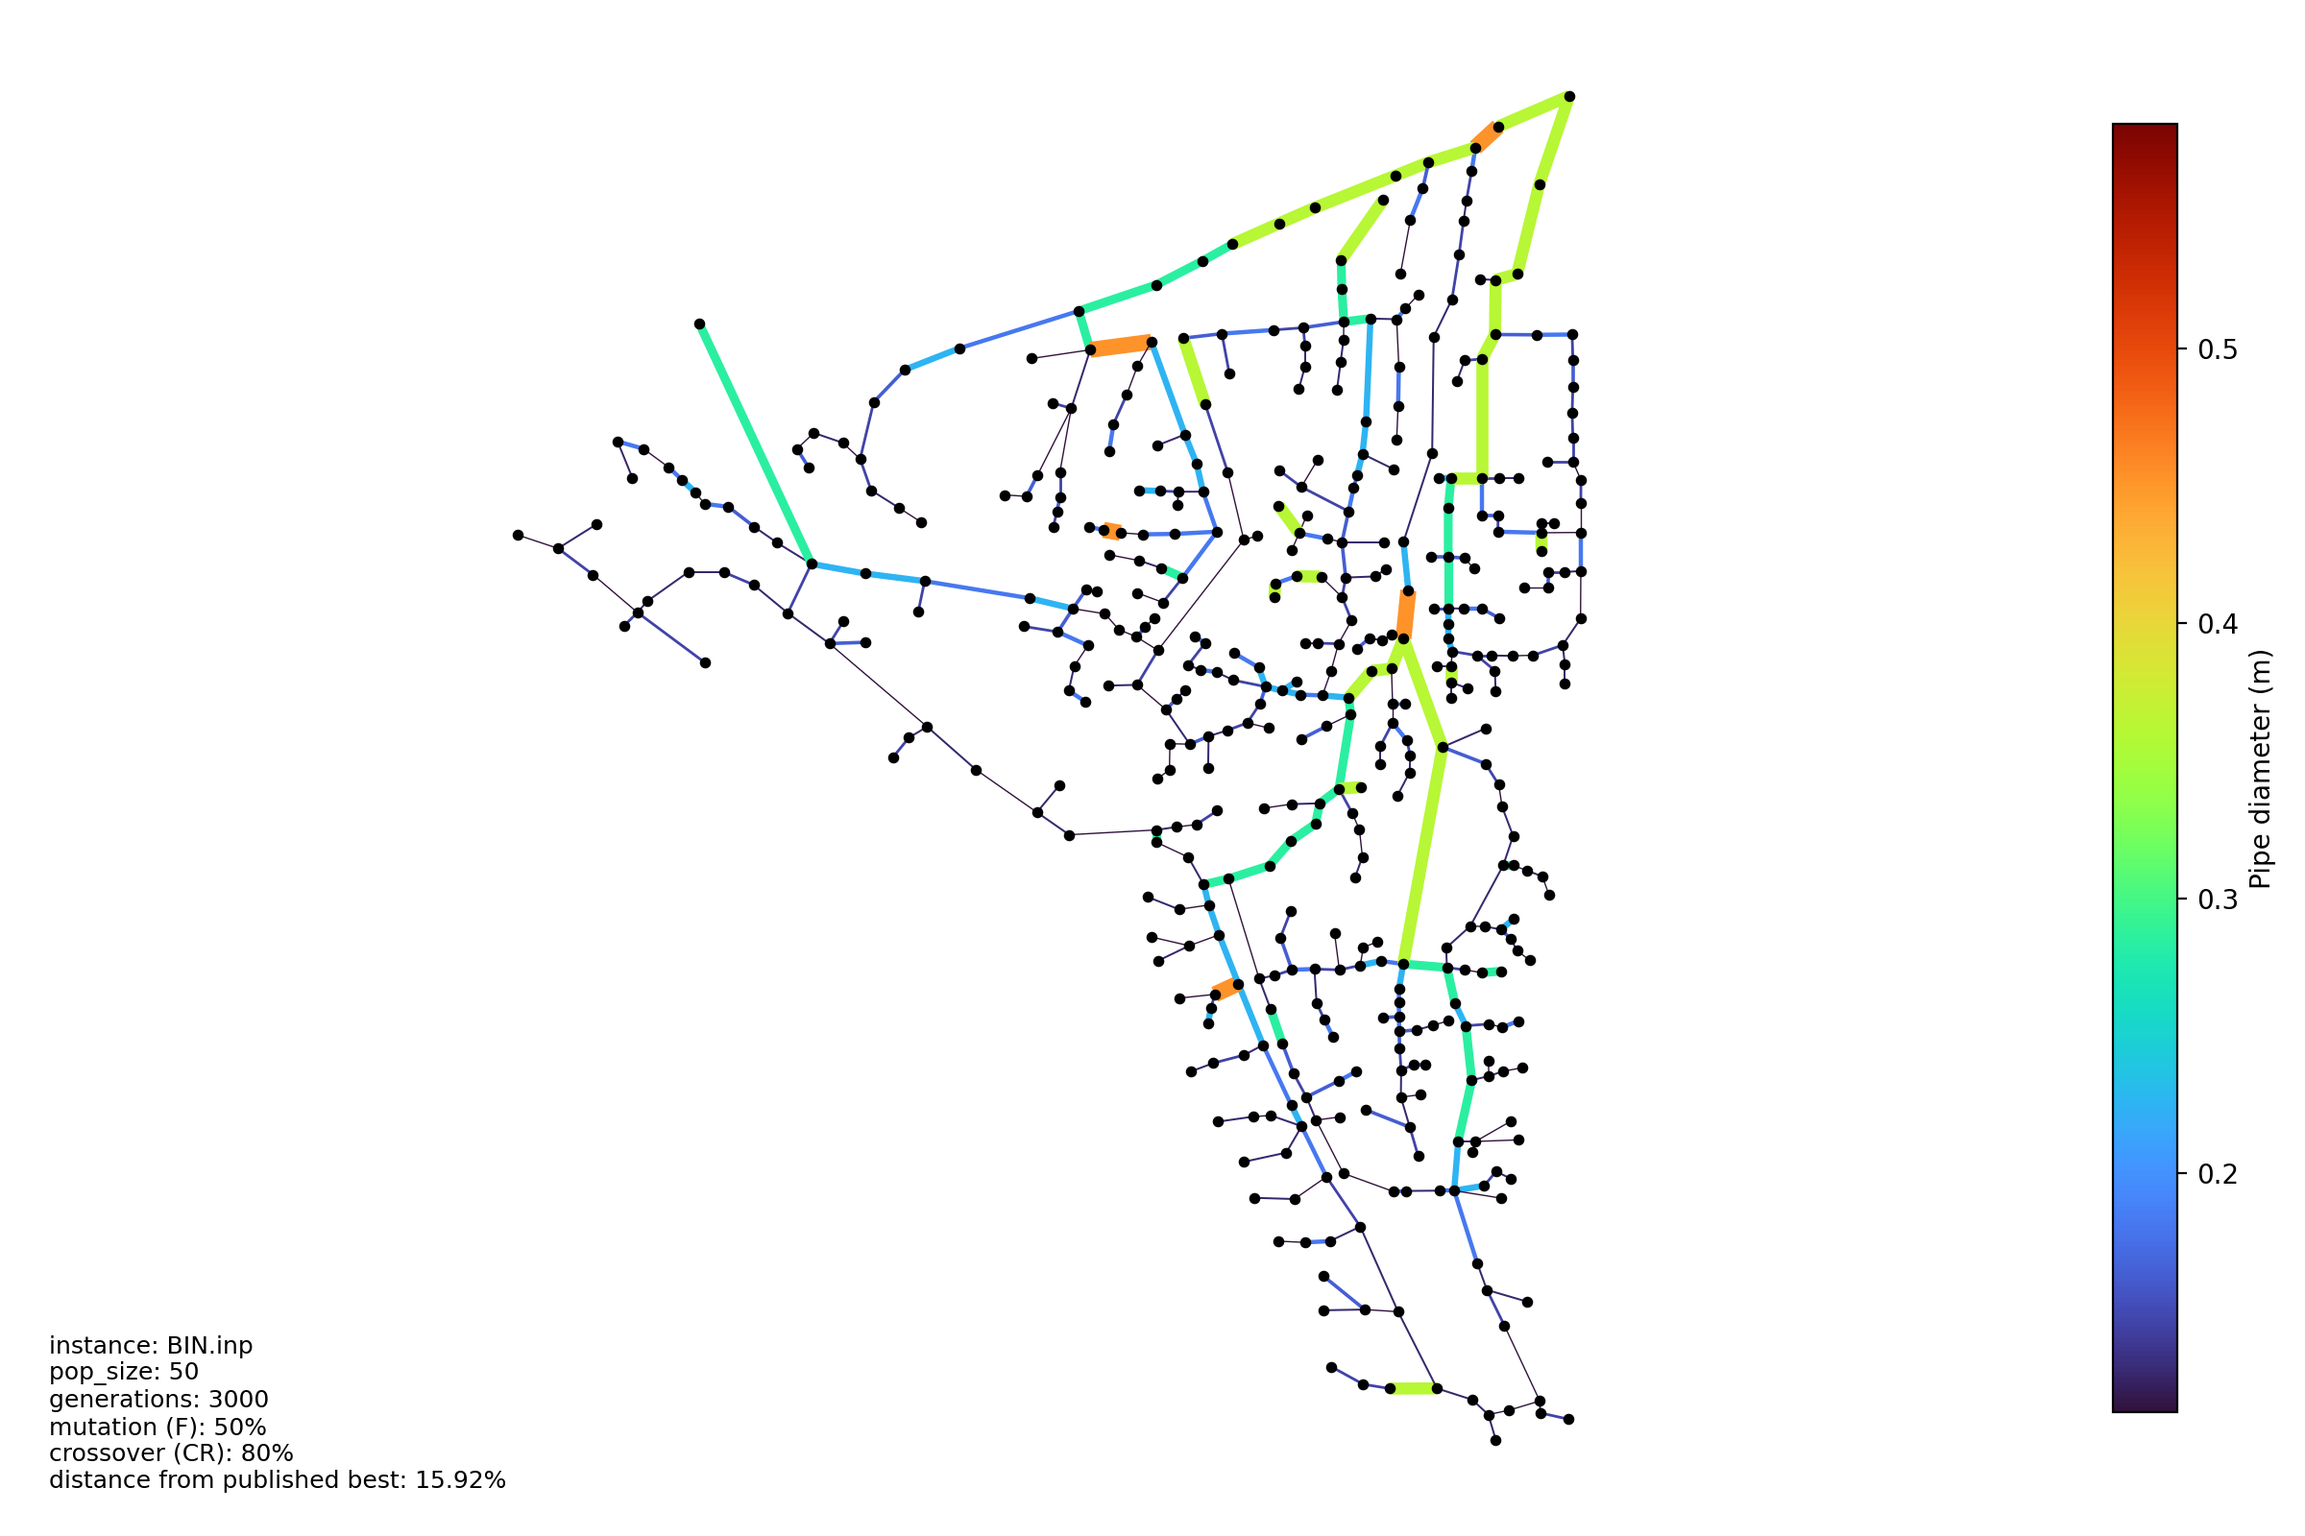
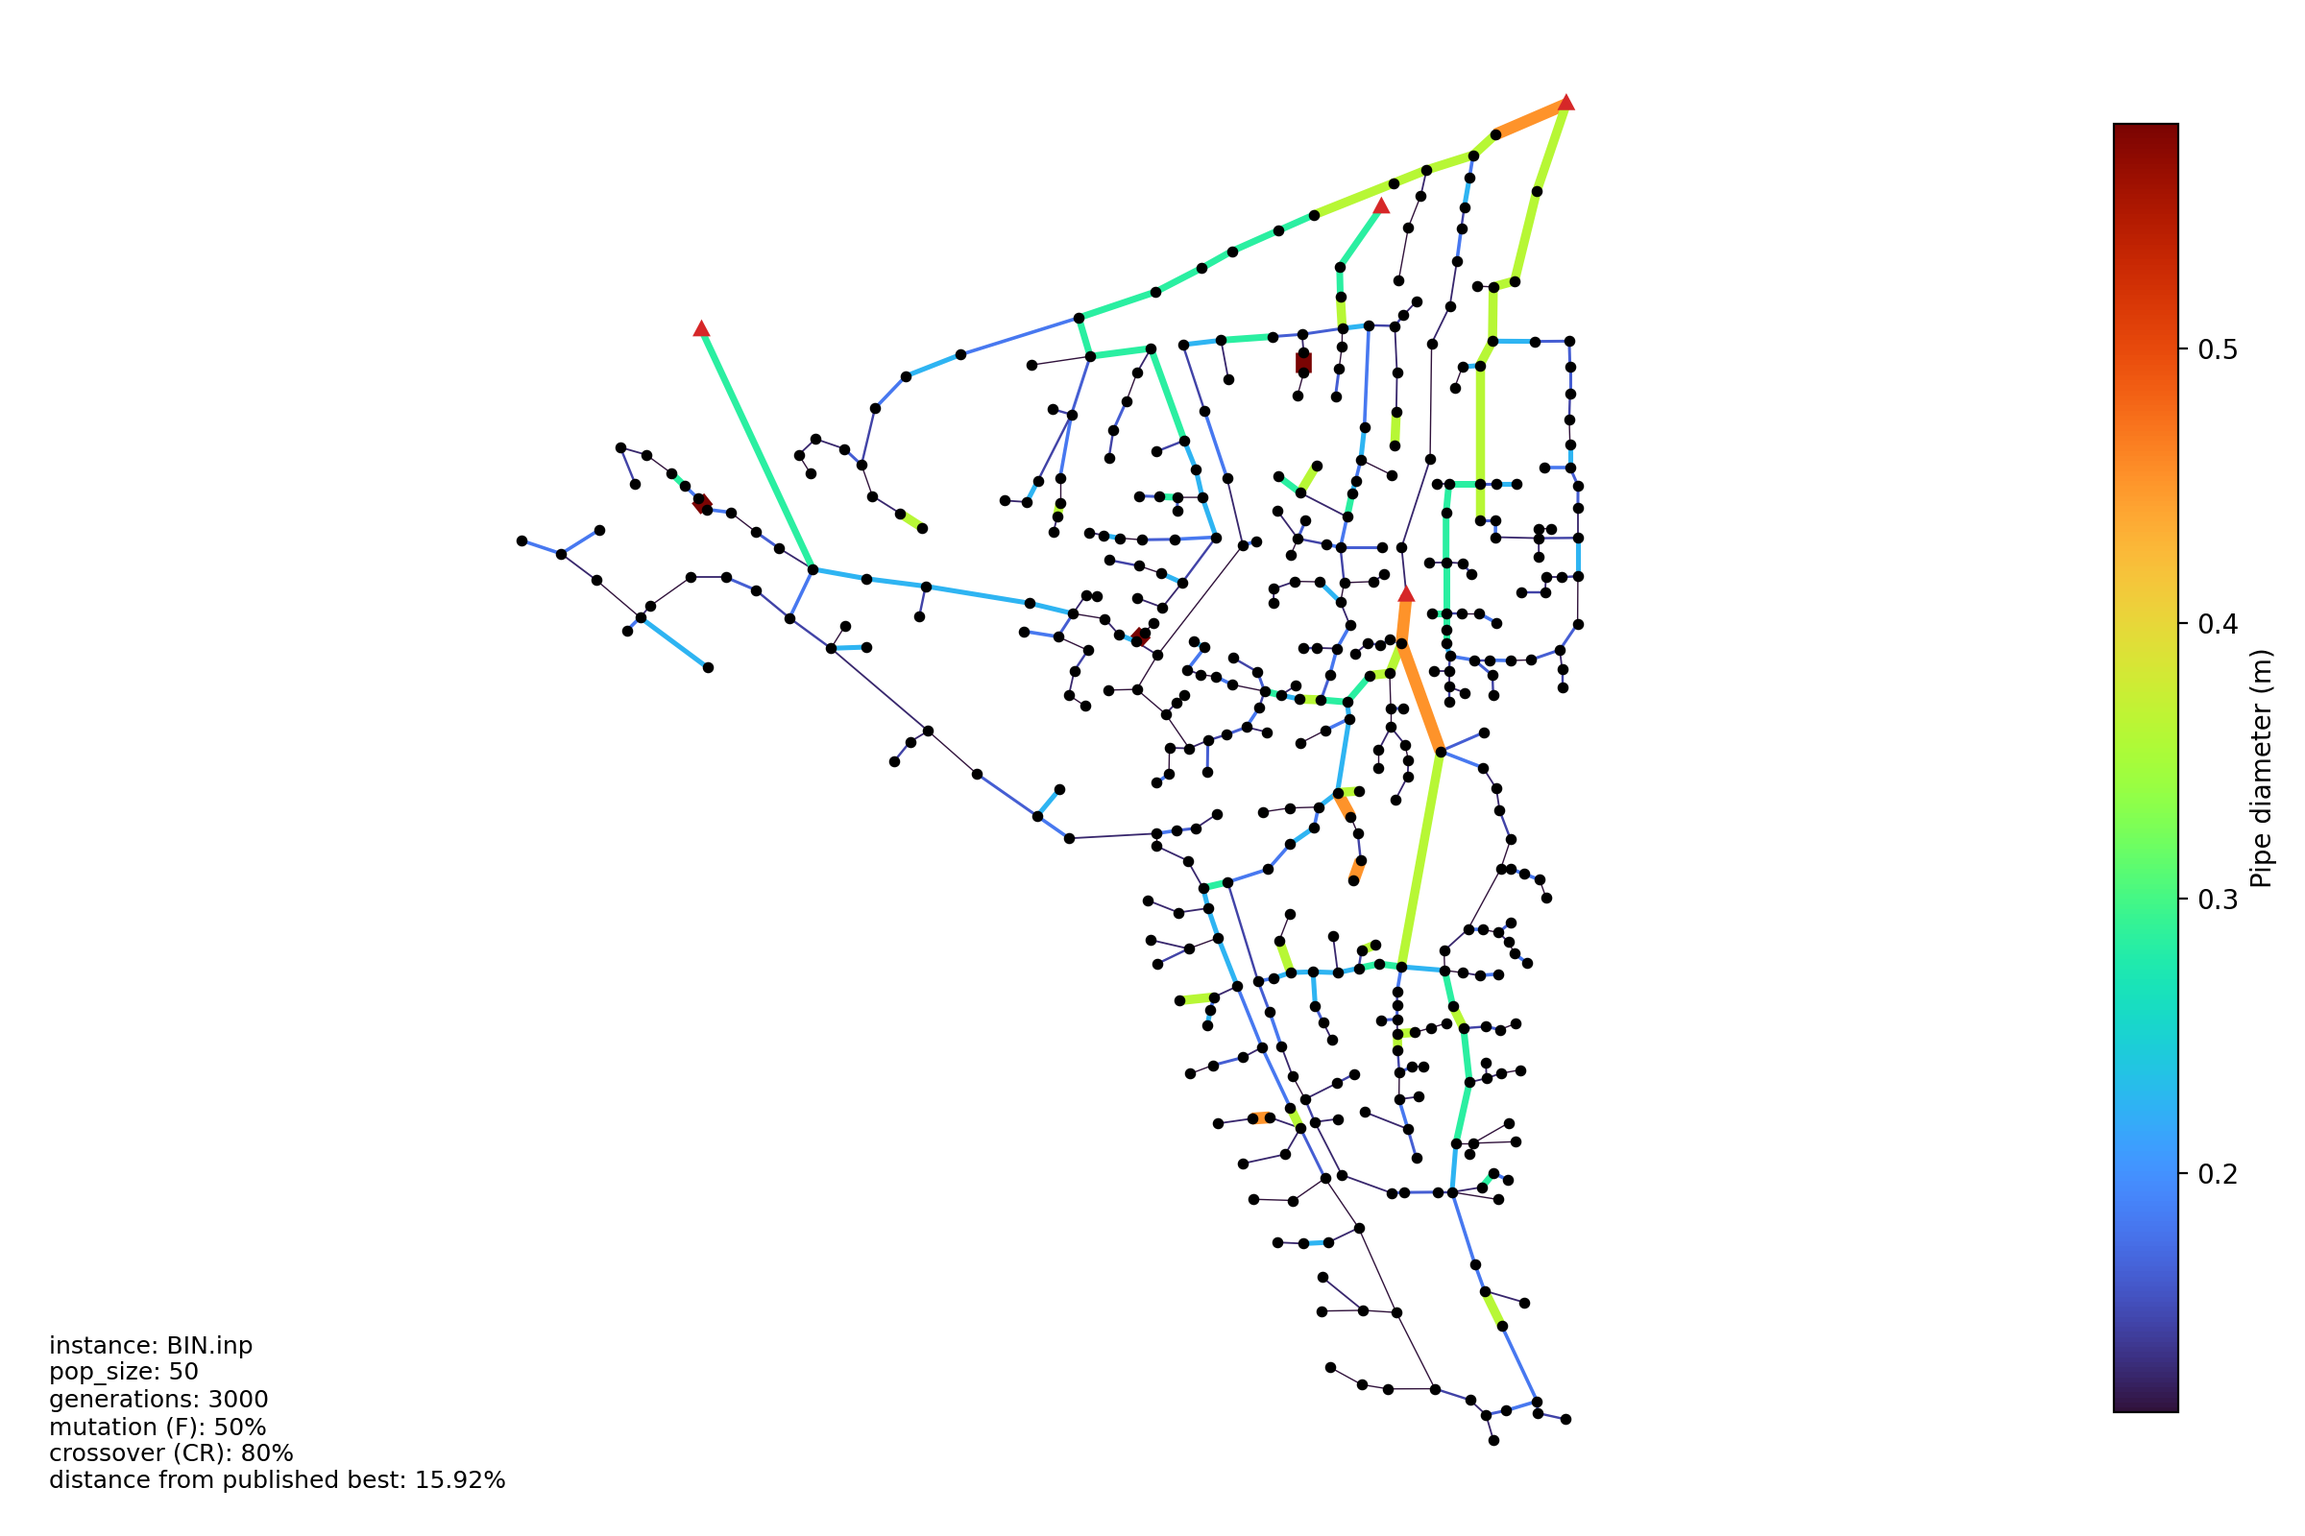
improve network visualization

diff --git a/water-distribution-networks/differential-evolution/main.py b/water-distribution-networks/differential-evolution/main.py
@@ -97,6 +97,10 @@ def _load_wntr_model_robust(
         current_section: str | None = None
         converted_reservoirs: list[str] = []
         reservoir_inserted = False
+        option_pattern_id: str | None = None
+        pattern_ids: set[str] = set()
+        patterns_section_index: int | None = None
+        node_ids: set[str] = set()
         changed = False
 
         for line in text.splitlines():
@@ -119,6 +123,8 @@ def _load_wntr_model_robust(
                 current_section = upper
                 if current_section == "[RESERVOIRS]":
                     reservoir_inserted = True
+                if current_section == "[PATTERNS]":
+                    patterns_section_index = len(rewritten_lines)
 
             if current_section == "[OPTIONS]" and upper.startswith("UNITS"):
                 parts = stripped.split()
@@ -128,12 +134,37 @@ def _load_wntr_model_robust(
                     changed = True
                     continue
 
+            if current_section == "[OPTIONS]" and upper.startswith("PATTERN"):
+                parts = stripped.split()
+                if len(parts) >= 2:
+                    option_pattern_id = parts[1]
+
+            if (
+                current_section in {"[JUNCTIONS]", "[RESERVOIRS]"}
+                and stripped
+                and not stripped.startswith(";")
+            ):
+                parts = stripped.split()
+                if parts:
+                    node_ids.add(parts[0])
+
+            if (
+                current_section == "[PATTERNS]"
+                and stripped
+                and not stripped.startswith(";")
+            ):
+                parts = stripped.split()
+                if parts:
+                    pattern_ids.add(parts[0])
+
             if (
                 current_section == "[TANKS]"
                 and stripped
                 and not stripped.startswith(";")
             ):
                 parts = stripped.split()
+                if parts:
+                    node_ids.add(parts[0])
                 if len(parts) == 2:
                     leading = line[: len(line) - len(line.lstrip())]
                     converted_reservoirs.append(f"{leading}{parts[0]} {parts[1]}")
@@ -154,6 +185,17 @@ def _load_wntr_model_robust(
                     changed = True
                     continue
 
+            if (
+                current_section == "[COORDINATES]"
+                and stripped
+                and not (upper.startswith("[") and upper.endswith("]"))
+                and not stripped.startswith(";")
+            ):
+                parts = stripped.split()
+                if parts and parts[0] not in node_ids:
+                    changed = True
+                    continue
+
             rewritten_lines.append(line)
 
         if converted_reservoirs and not reservoir_inserted:
@@ -161,6 +203,21 @@ def _load_wntr_model_robust(
                 ["[RESERVOIRS]", "; Converted from simplified [TANKS] entries."]
             )
             rewritten_lines.extend(converted_reservoirs)
+            changed = True
+
+        if option_pattern_id and option_pattern_id not in pattern_ids:
+            insert_at = (
+                patterns_section_index + 1
+                if patterns_section_index is not None
+                else len(rewritten_lines)
+            )
+            injected_lines = [
+                f"{option_pattern_id} 1.0",
+                "; Injected default flat pattern for wntr compatibility.",
+            ]
+            if patterns_section_index is None:
+                injected_lines.insert(0, "[PATTERNS]")
+            rewritten_lines[insert_at:insert_at] = injected_lines
             changed = True
 
         if not changed:
@@ -192,6 +249,9 @@ def _load_wntr_model_robust(
     except ValueError as exc:
         if 'inpfile_units = "%s" is not a valid EPANET unit code' not in str(exc):
             raise
+        text = inp_path.read_text(encoding="utf-8", errors="replace")
+        return _load_from_text(text)
+    except wntr.epanet.exceptions.EpanetException:
         text = inp_path.read_text(encoding="utf-8", errors="replace")
         return _load_from_text(text)
 
@@ -522,7 +582,7 @@ def _build_progress_line(
 
 
 def main() -> None:
-    runs = 15
+    runs = 24
     # instance_name = "TLN.inp"
     # instance_name = "BLA.inp"
     instance_name = "GOY.inp"
@@ -539,7 +599,7 @@ def main() -> None:
     # crossover_rate=0.9
 
     config = DifferentialEvolutionConfig(
-        generations=500,
+        generations=300,
         population_size=50,
         mutation_factor=mutation_factor,
         crossover_rate=crossover_rate,

diff --git a/water-distribution-networks/differential-evolution/generate_best_for_instance.py b/water-distribution-networks/differential-evolution/generate_best_for_instance.py
@@ -11,6 +11,7 @@ import matplotlib
 matplotlib.use("Agg")
 import matplotlib.pyplot as plt
 from matplotlib.collections import LineCollection
+from matplotlib.patches import Polygon
 
 
 def load_best_vector(path: Path) -> np.ndarray:
@@ -29,6 +30,24 @@ def snap_to_allowed(candidate: np.ndarray, allowed: np.ndarray) -> np.ndarray:
     distances = np.abs(candidate[:, None] - allowed[None, :])
     idx = np.argmin(distances, axis=1)
     return allowed[idx]
+
+
+def _draw_source_symbol(ax: plt.Axes, x: float, y: float, scale: float) -> None:
+    triangle = [
+        (x, y + scale),
+        (x - scale * 0.85, y - scale * 0.6),
+        (x + scale * 0.85, y - scale * 0.6),
+    ]
+    ax.add_patch(
+        Polygon(
+            triangle,
+            closed=True,
+            facecolor="#d62728",
+            edgecolor="#d62728",
+            linewidth=1.0,
+            zorder=3,
+        )
+    )
 
 
 def generate_for_results(results_dir: Path) -> None:
@@ -69,7 +88,7 @@ def generate_for_results(results_dir: Path) -> None:
                     run_cost = cost
                     best_run_id = rid
 
-    files = sorted(results_dir.glob("run_*_best_vectors.csv"))
+    files = sorted(results_dir.glob("run_*_best_vector*.csv"))
     if not files:
         raise SystemExit("No best vector files found")
     best_vec_path = files[0]
@@ -84,6 +103,21 @@ def generate_for_results(results_dir: Path) -> None:
     inp_path = Path(__file__).resolve().parents[1] / "data" / instance_name
     parsed = InpFileParser(inp_path).parse()
     pipe_entries = parsed.pipes.entries if parsed.pipes else []
+    pump_entries = parsed.pumps.entries if parsed.pumps else []
+    tank_ids = {entry.id for entry in parsed.tanks.entries} if parsed.tanks else set()
+    reservoir_ids = (
+        {entry.id for entry in parsed.reservoirs.entries}
+        if parsed.reservoirs
+        else set()
+    )
+    pipe_nodes = {p.node1 for p in pipe_entries} | {p.node2 for p in pipe_entries}
+    inferred_source_ids = {
+        node
+        for pump in pump_entries
+        for node in (pump.node1, pump.node2)
+        if node not in pipe_nodes
+    }
+    source_ids = tank_ids | reservoir_ids | inferred_source_ids
 
     positions = {}
     if parsed.coordinates and parsed.coordinates.entries:
@@ -136,9 +170,47 @@ def generate_for_results(results_dir: Path) -> None:
     fig, ax = plt.subplots(figsize=(12, 8))
     lc = LineCollection(segments, colors=colors, linewidths=widths, zorder=1)
     ax.add_collection(lc)
-    node_x = [positions[n][0] for n in positions]
-    node_y = [positions[n][1] for n in positions]
+    pump_segments = []
+    pump_labels = []
+    for pump in pump_entries:
+        if pump.node1 not in positions or pump.node2 not in positions:
+            continue
+        x1, y1 = positions[pump.node1]
+        x2, y2 = positions[pump.node2]
+        pump_segments.append([(x1, y1), (x2, y2)])
+        pump_labels.append(((x1 + x2) / 2.0, (y1 + y2) / 2.0))
+    if pump_segments:
+        ax.add_collection(
+            LineCollection(
+                pump_segments,
+                colors="black",
+                linewidths=1.6,
+                zorder=2,
+            )
+        )
+
+    node_x = [positions[n][0] for n in positions if n not in source_ids]
+    node_y = [positions[n][1] for n in positions if n not in source_ids]
     ax.scatter(node_x, node_y, s=10, c="k", zorder=2)
+    if positions:
+        xs = [xy[0] for xy in positions.values()]
+        ys = [xy[1] for xy in positions.values()]
+        symbol_scale = max(max(xs) - min(xs), max(ys) - min(ys)) * 0.006
+        for source_id in source_ids:
+            if source_id not in positions:
+                continue
+            _draw_source_symbol(ax, *positions[source_id], scale=symbol_scale)
+    for x, y in pump_labels:
+        ax.text(
+            x,
+            y,
+            "P",
+            ha="center",
+            va="center",
+            fontsize=10,
+            bbox=dict(facecolor="white", edgecolor="none", pad=0.2),
+            zorder=4,
+        )
     ax.set_aspect("equal", adjustable="datalim")
     ax.axis("off")
     sm = plt.cm.ScalarMappable(cmap=cmap, norm=norm)

diff --git a/water-distribution-networks/differential-evolution/visualize_best.py b/water-distribution-networks/differential-evolution/visualize_best.py
@@ -11,6 +11,7 @@ import matplotlib
 matplotlib.use("Agg")
 import matplotlib.pyplot as plt
 from matplotlib.collections import LineCollection
+from matplotlib.patches import Polygon
 
 
 def load_best_vector(path: Path) -> np.ndarray:
@@ -31,6 +32,24 @@ def snap_to_allowed(candidate: np.ndarray, allowed: np.ndarray) -> np.ndarray:
     distances = np.abs(candidate[:, None] - allowed[None, :])
     idx = np.argmin(distances, axis=1)
     return allowed[idx]
+
+
+def _draw_source_symbol(ax: plt.Axes, x: float, y: float, scale: float) -> None:
+    triangle = [
+        (x, y + scale),
+        (x - scale * 0.85, y - scale * 0.6),
+        (x + scale * 0.85, y - scale * 0.6),
+    ]
+    ax.add_patch(
+        Polygon(
+            triangle,
+            closed=True,
+            facecolor="#d62728",
+            edgecolor="#d62728",
+            linewidth=1.0,
+            zorder=3,
+        )
+    )
 
 
 def main() -> None:
@@ -90,6 +109,19 @@ def main() -> None:
 
     parsed = InpFileParser(inp_path).parse()
     pipe_entries = parsed.pipes.entries if parsed.pipes else []
+    pump_entries = parsed.pumps.entries if parsed.pumps else []
+    tank_ids = {entry.id for entry in parsed.tanks.entries} if parsed.tanks else set()
+    reservoir_ids = (
+        {entry.id for entry in parsed.reservoirs.entries} if parsed.reservoirs else set()
+    )
+    pipe_nodes = {p.node1 for p in pipe_entries} | {p.node2 for p in pipe_entries}
+    inferred_source_ids = {
+        node
+        for pump in pump_entries
+        for node in (pump.node1, pump.node2)
+        if node not in pipe_nodes
+    }
+    source_ids = tank_ids | reservoir_ids | inferred_source_ids
 
     # build positions mapping from COORDINATES section if present
     positions = {}
@@ -154,14 +186,53 @@ def main() -> None:
         fig, ax = plt.subplots(figsize=(12, 8))
         lc = LineCollection(segments, colors=colors, linewidths=widths, zorder=1)
         ax.add_collection(lc)
+        pump_segments = []
+        pump_labels = []
+        for pump in pump_entries:
+            if pump.node1 not in local_positions or pump.node2 not in local_positions:
+                continue
+            x1, y1 = local_positions[pump.node1]
+            x2, y2 = local_positions[pump.node2]
+            pump_segments.append([(x1, y1), (x2, y2)])
+            pump_labels.append(((x1 + x2) / 2.0, (y1 + y2) / 2.0))
+        if pump_segments:
+            ax.add_collection(
+                LineCollection(
+                    pump_segments,
+                    colors="black",
+                    linewidths=1.6,
+                    zorder=2,
+                )
+            )
 
         # draw nodes
         node_x = []
         node_y = []
         for n, (x, y) in local_positions.items():
+            if n in source_ids:
+                continue
             node_x.append(x)
             node_y.append(y)
         ax.scatter(node_x, node_y, s=10, c="k", zorder=2)
+        if local_positions:
+            xs = [xy[0] for xy in local_positions.values()]
+            ys = [xy[1] for xy in local_positions.values()]
+            symbol_scale = max(max(xs) - min(xs), max(ys) - min(ys)) * 0.006
+            for source_id in source_ids:
+                if source_id not in local_positions:
+                    continue
+                _draw_source_symbol(ax, *local_positions[source_id], scale=symbol_scale)
+        for x, y in pump_labels:
+            ax.text(
+                x,
+                y,
+                "P",
+                ha="center",
+                va="center",
+                fontsize=10,
+                bbox=dict(facecolor="white", edgecolor="none", pad=0.2),
+                zorder=4,
+            )
 
         ax.set_aspect("equal", adjustable="datalim")
         ax.axis("off")
